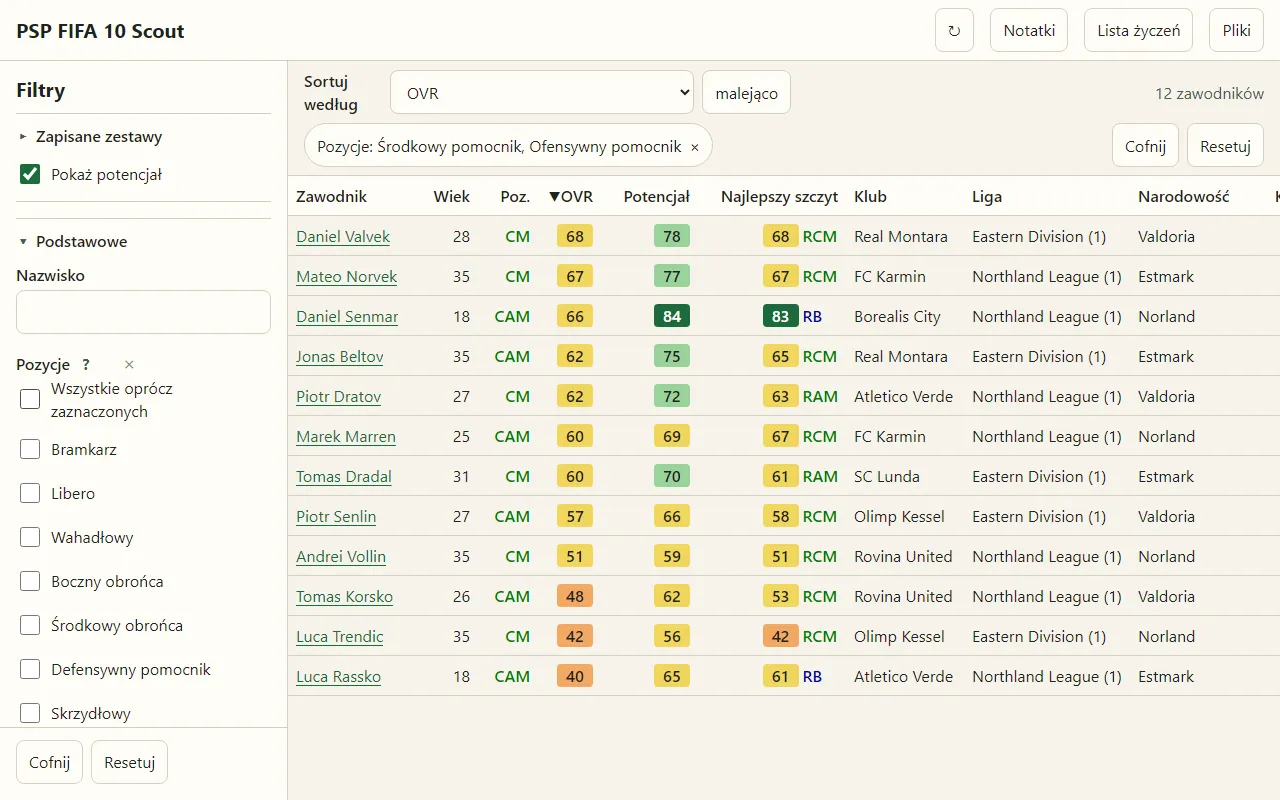
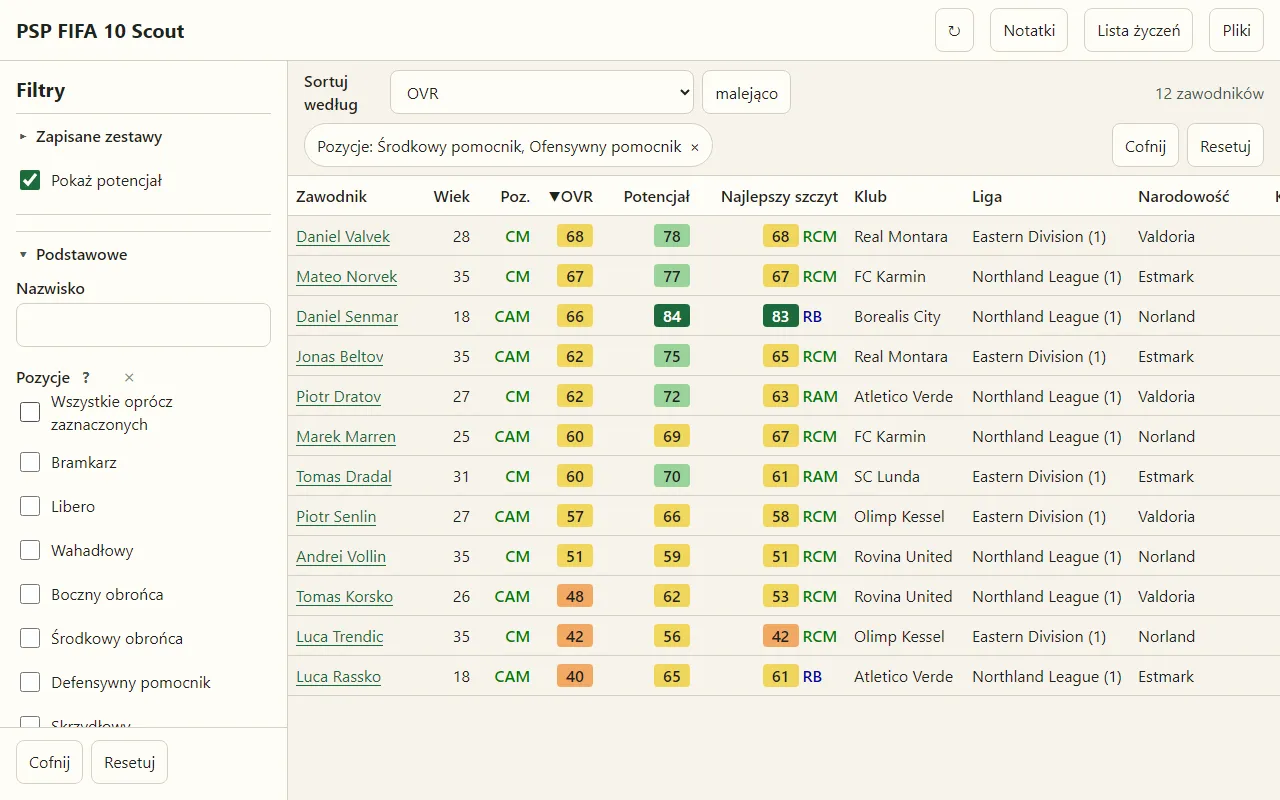
feat(filters): recommend showing the potential while it is off
The owner calls the potential the tool's selling point. While the switch
is off, a line under it says so and what it shows; the start page leads
its list with the same advice, and every sample screenshot shows the
potential, the phone's included.

Changed region(s): [[0.0, 0.4375, 0.125, 0.75], [0.0, 0.1875, 0.1875, 0.375], [0.0, 0.7812, 0.1562, 0.9062]]

diff --git a/src/ui/filter-panel-controls.tsx b/src/ui/filter-panel-controls.tsx
@@ -1,21 +1,36 @@
 // The filter panel's own control above the filters: the potential switch.
+import { useId } from "react";
 import type { Dispatch, JSX } from "react";
 import type { ScoutAction } from "../logic/scout-state.ts";
 import { TEXT } from "./text.ts";
 
-/** Shows the potential and its filters; set apart from the saved sets above it (owner, 2026-11-05). */
+/**
+ * Shows the potential and its filters; set apart from the saved sets above it (owner, 2026-11-05). While
+ * it is off, a line under it recommends it: the potential is what the game hides (owner, 2026-11-11).
+ */
 export const PotentialSwitch = (props: {
   shown: boolean;
   dispatch: Dispatch<ScoutAction>;
-}): JSX.Element => (
-  <label className="check potential-switch">
-    <input
-      type="checkbox"
-      checked={props.shown}
-      onChange={(event) => {
-        props.dispatch({ type: "potential-shown", shown: event.currentTarget.checked });
-      }}
-    />
-    {TEXT.showPotential}
-  </label>
-);
+}): JSX.Element => {
+  const adviceId = useId();
+  return (
+    <div className="potential-switch">
+      <label className="check">
+        <input
+          type="checkbox"
+          checked={props.shown}
+          aria-describedby={props.shown ? undefined : adviceId}
+          onChange={(event) => {
+            props.dispatch({ type: "potential-shown", shown: event.currentTarget.checked });
+          }}
+        />
+        {TEXT.showPotential}
+      </label>
+      {props.shown ? null : (
+        <p id={adviceId} className="potential-advice">
+          <strong>{TEXT.showPotentialAdvice.lead}</strong> {TEXT.showPotentialAdvice.text}
+        </p>
+      )}
+    </div>
+  );
+};

diff --git a/index.html b/index.html
@@ -45,6 +45,10 @@
               <h3>Co robi</h3>
               <ul>
                 <li>
+                  Potencjał i szczyt są domyślnie ukryte. Zaznacz „Pokaż potencjał” nad filtrami: to
+                  pole odsłania to, czego gra nie pokazuje, i na nim opiera się reszta narzędzia.
+                </li>
+                <li>
                   Z zapisem kariery pokazuje szczyt OVR i zapas do szczytu, czyli ile zawodnik
                   jeszcze urośnie. Szczyt to prognoza z krzywych rozwoju gry bez przyszłych
                   przyrostów z meczów i treningu; na pozycji preferowanej ta sama co na wykresie
@@ -54,7 +58,6 @@
                   Szczyt liczy na każdej pozycji i wskazuje pozycję, na której jest największy.
                   Pozycja najlepsza dziś nie musi być najlepsza w szczycie.
                 </li>
-                <li>Potencjał i szczyt są domyślnie ukryte; jeden przełącznik je pokazuje.</li>
                 <li>
                   Filtruje po pozycji, lidze, klubie, narodowości, wieku, ocenie (OVR), potencjale,
                   atrybutach, kontrakcie i cechach, a wyniki sortuje. Z zapisem kariery dochodzą

diff --git a/e2e/scout.spec.ts b/e2e/scout.spec.ts
@@ -95,6 +95,17 @@ test.describe("stored state", () => {
 test.describe("wide screen", () => {
   test.use({ viewport: { width: 1280, height: 800 } });
 
+  // Owner, 2026-11-11: the potential is the tool's main use, so the switch recommends itself while off.
+  test("recommends itself while off and drops the advice once on", async ({ page }) => {
+    await loadDatabase(page);
+    const potential = page.getByRole("checkbox", { name: "Pokaż potencjał" });
+    await expect(potential).toHaveAccessibleDescription(/^Zalecane\. Gra nie pokazuje potencjału/u);
+    await expectNoAxeViolations(page);
+    await potential.check();
+    await expect(page.getByText(/^Zalecane\./u)).toHaveCount(0);
+    await expect(potential).toHaveAccessibleDescription("");
+  });
+
   test("filters, sorts and opens a player card", async ({ page }) => {
     await loadDatabase(page);
     const table = page.getByRole("table");

diff --git a/src/ui/styles.css b/src/ui/styles.css
@@ -966,6 +966,15 @@ input[inputmode="numeric"] {
   border-bottom: 1px solid var(--color-line);
 }
 
+/* The switch's advice while it is off, marked by the accent beside it. */
+.potential-advice {
+  margin: var(--space-2) 0 0;
+  padding-inline-start: var(--space-3);
+  border-inline-start: 3px solid var(--color-accent);
+  color: var(--color-muted);
+  font-size: var(--font-size-sm);
+}
+
 /* The undo and reset buttons stay in reach at the bottom of a long panel: the negative offset and margins
    take up the panel's padding, so no filter shows below the bar and its line runs the full width, and the
    buttons keep clear of the phone's home indicator. */

diff --git a/src/ui/text.ts b/src/ui/text.ts
@@ -252,6 +252,11 @@ export const TEXT = {
   noMatches: "Żaden zawodnik nie spełnia filtrów.",
   filters: "Filtry",
   showPotential: "Pokaż potencjał",
+  /** Under the potential switch while it is off: the tool's main use, so it says so (owner, 2026-11-11). */
+  showPotentialAdvice: {
+    lead: "Zalecane.",
+    text: pl`Gra nie pokazuje potencjału; to pole go pokazuje, a z zapisem kariery także szczyt OVR i zapas do szczytu.`,
+  },
   positionRating: "Ocena na pozycji",
   ratingAt: (position: string): string => `OVR ${position}`,
   ratingChoice: (group: string, abbreviation: string): string => `${group} (${abbreviation})`,

diff --git a/scripts/make-screenshots.ts b/scripts/make-screenshots.ts
@@ -65,6 +65,8 @@ const SHOTS: readonly Shot[] = [
     arrange: async (page) => {
       await page.getByRole("button", { name: "Filtry" }).click();
       const dialog = page.getByRole("dialog", { name: "Filtry" });
+      // Every picture shows the potential: what the game hides is what the tool is for (owner, 2026-11-11).
+      await dialog.getByRole("checkbox", { name: "Pokaż potencjał" }).check();
       await checkGroups(dialog);
       await dialog.getByRole("button", { name: "Zamknij" }).click();
       // The button that opened the dialog gets the focus back; its ring is not part of the picture.
